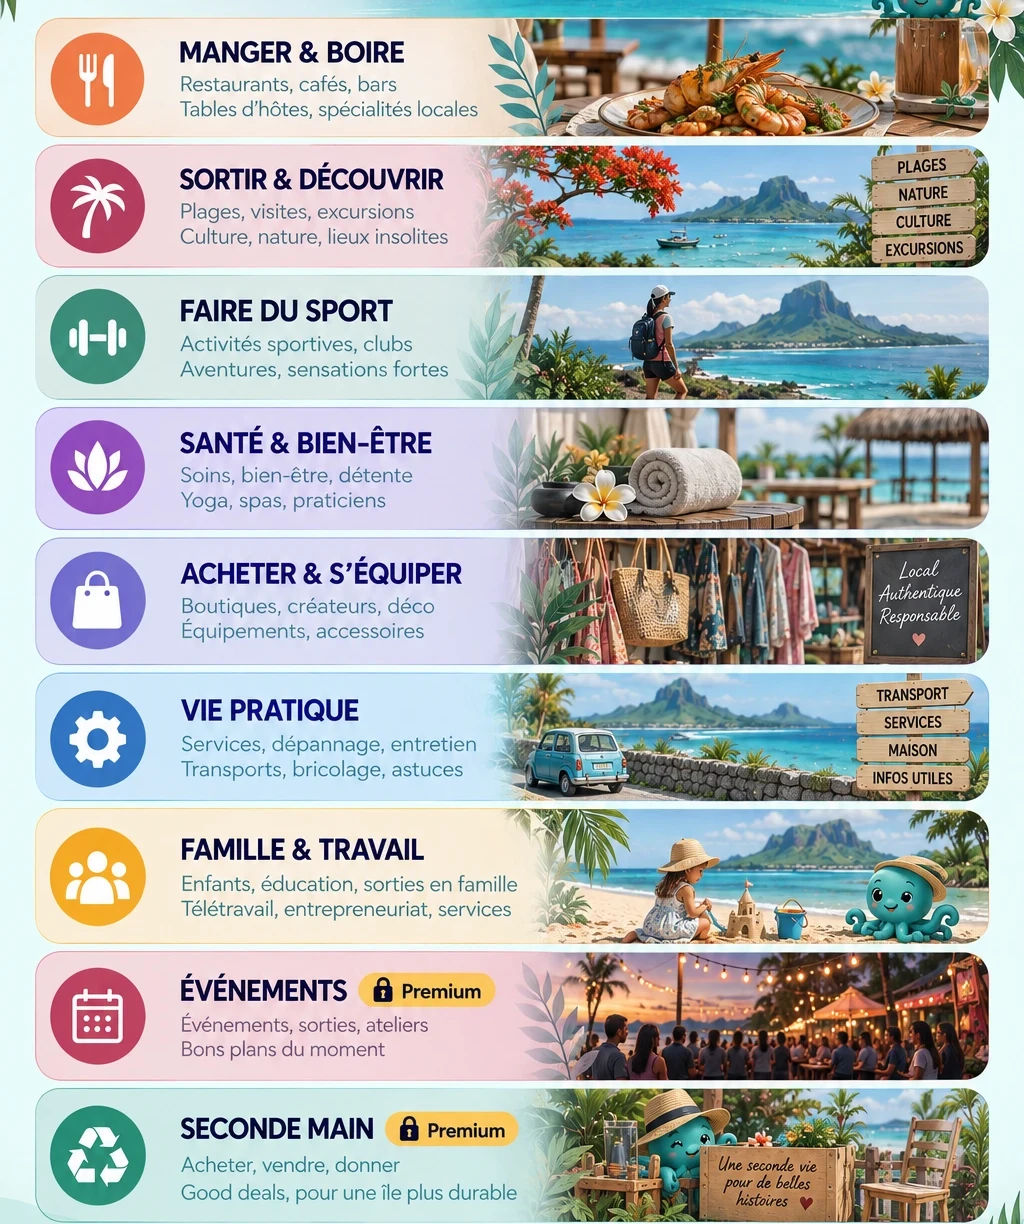
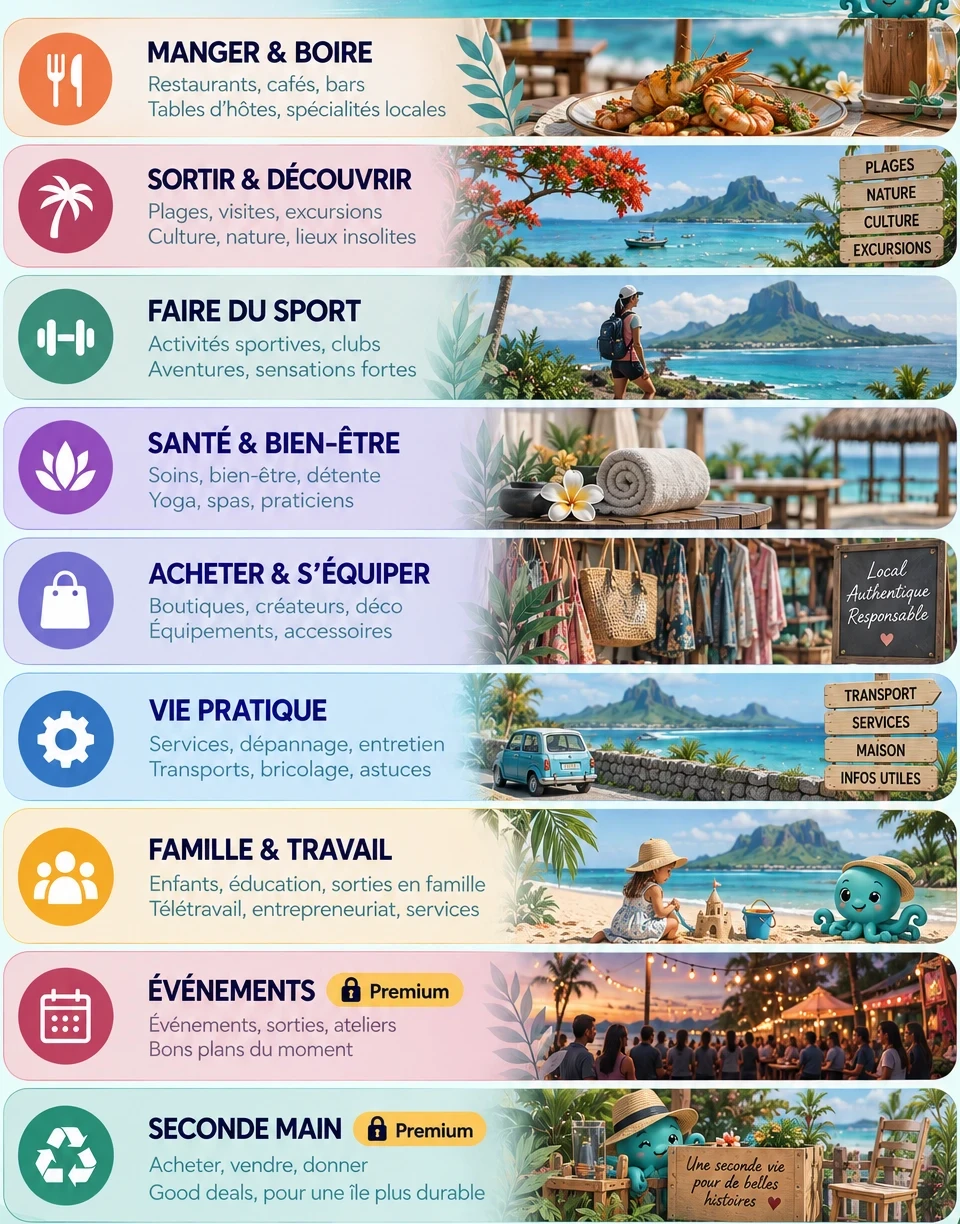
Fait déborder l'image « Explorer par catégorie » jusqu'aux bords de l'écran
L'image débordait déjà en largeur mais gardait une bordure claire
décorative (~3,4% de chaque côté) héritée du recadrage précédent : les
lignes catégories ne touchaient pas vraiment les bords. Recadrage
horizontal supplémentaire (x=32 à 992 sur les 1024px d'origine) pour que
les pastilles touchent réellement les bords de l'écran, plus marge
négative sur le conteneur pour annuler le padding de la page.

diff --git a/web/app/DirectoryClient.tsx b/web/app/DirectoryClient.tsx
@@ -2849,7 +2849,7 @@ export default function DirectoryClient({
                   Voir tout ({rows.length}) ›
                 </button>
               </div>
-              <div className="relative w-full rounded-2xl overflow-hidden shadow-card">
+              <div className="relative w-[calc(100%+2rem)] lg:w-[calc(100%+2.5rem)] -mx-4 lg:-mx-5 overflow-hidden">
                 {/* eslint-disable-next-line @next/next/no-img-element */}
                 <img
                   src="/explorer-categories-rows.webp"
